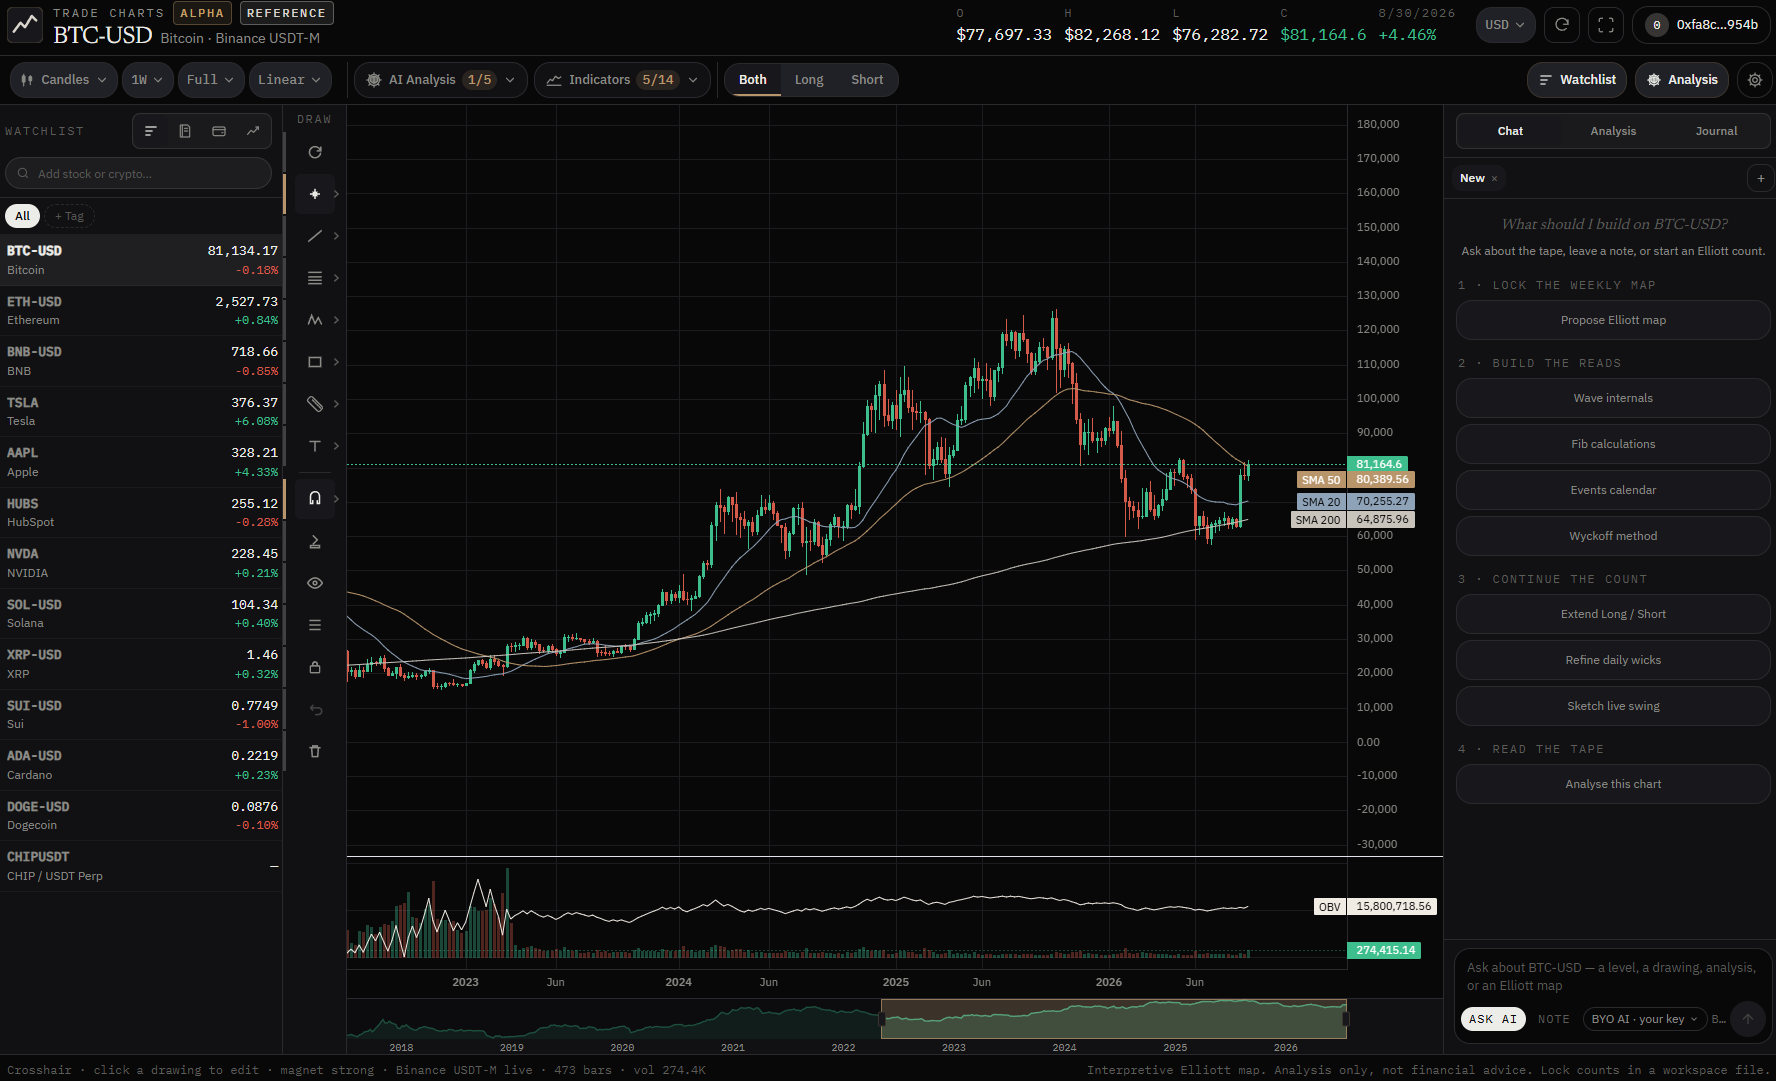
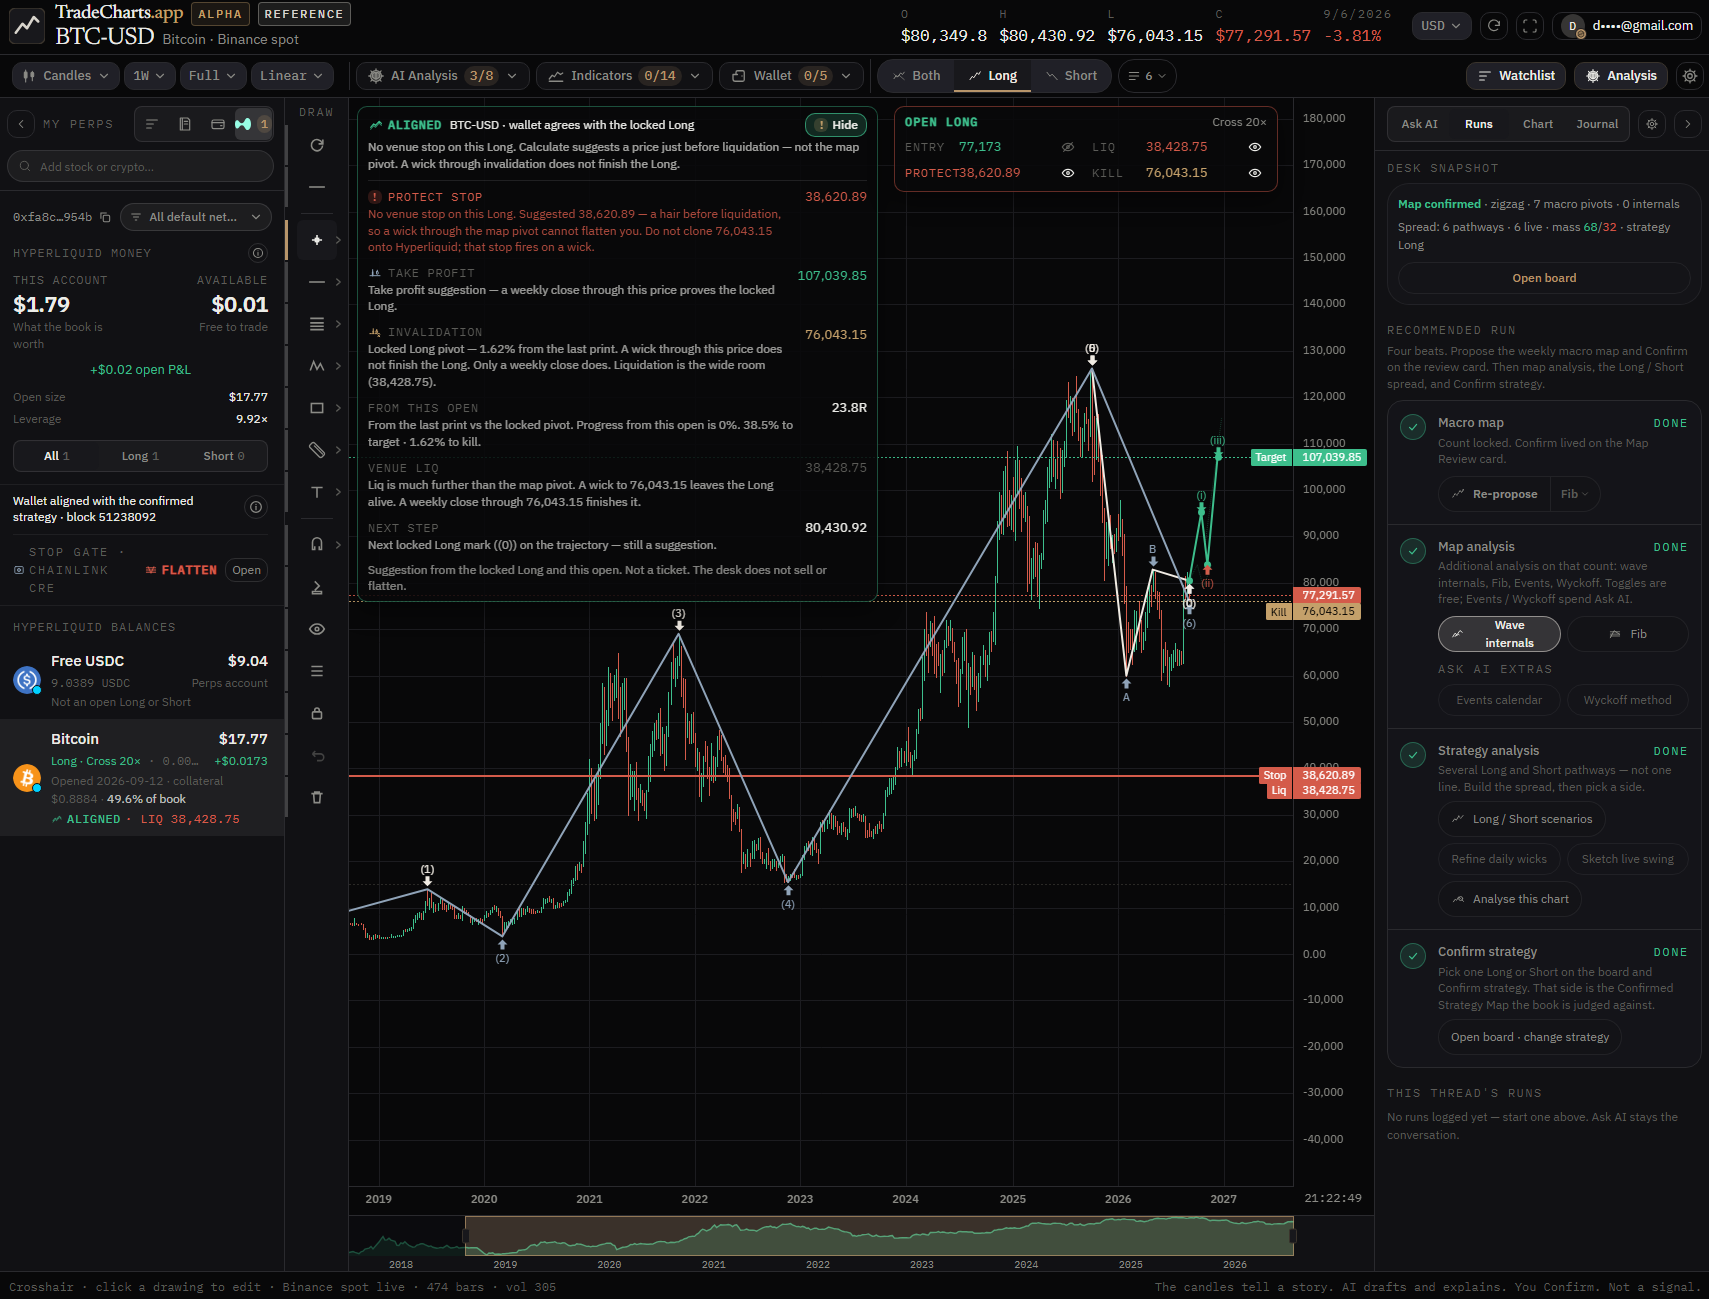
docs: replace Live desk shots with the aligned BTC Calculate capture

diff --git a/README.md b/README.md
@@ -192,11 +192,7 @@ Ledger stays built in `ledger/` as a device fallback (not a form tick) — real 
 ## Live desk
 
 <p align="center">
-  <img src="assets/screenshots/00-desk-btc.png" width="100%" alt="TradeCharts desk — BTC-USD weekly" />
-</p>
-
-<p align="center">
-  <img src="assets/screenshots/01-desk.png" width="100%" alt="TradeCharts desk — ETH-USD weekly" />
+  <img src="assets/screenshots/00-desk-btc.png" width="100%" alt="TradeCharts desk — BTC-USD weekly, aligned Long, Calculate vs liquidation" />
 </p>
 
 Wallet SIWE. Binance coin-volume tape. Spot + Hyperliquid reads. Elliott / Wyckoff / Fib / internals / events / indicators. Validator is the render gate. Confirm is still private JSON. The book does not flatten.
